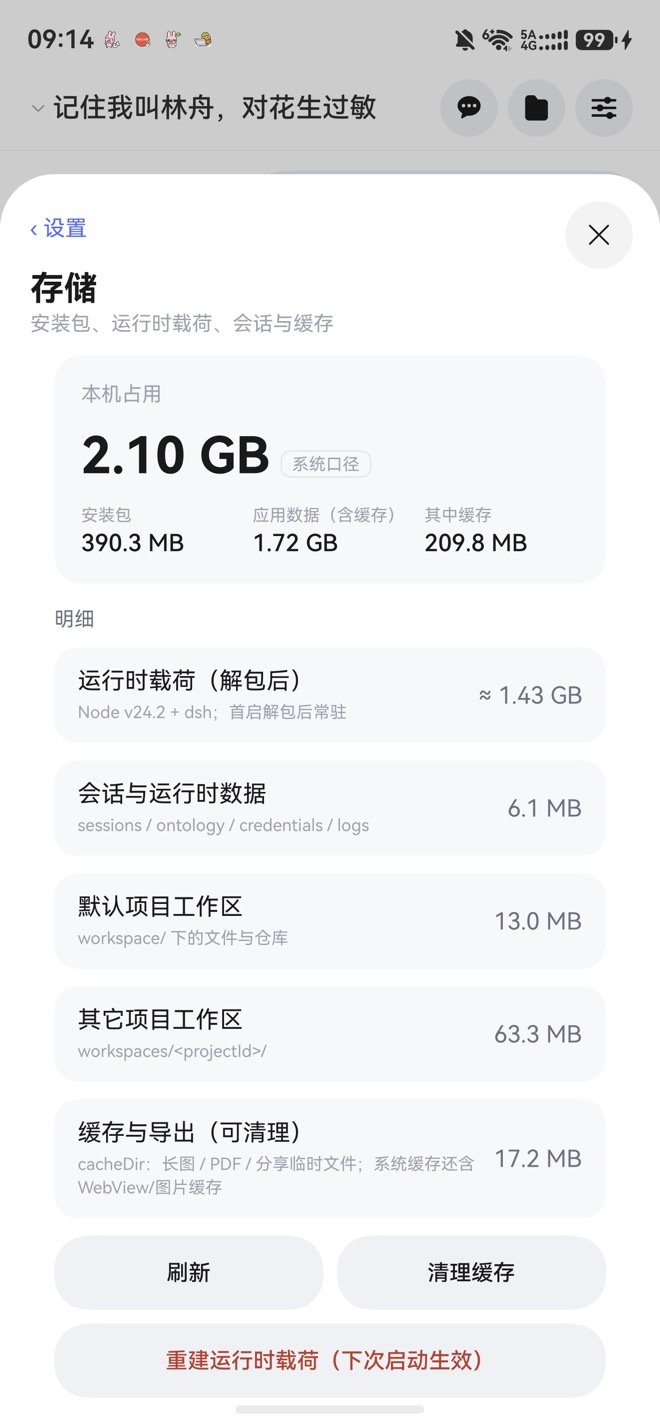
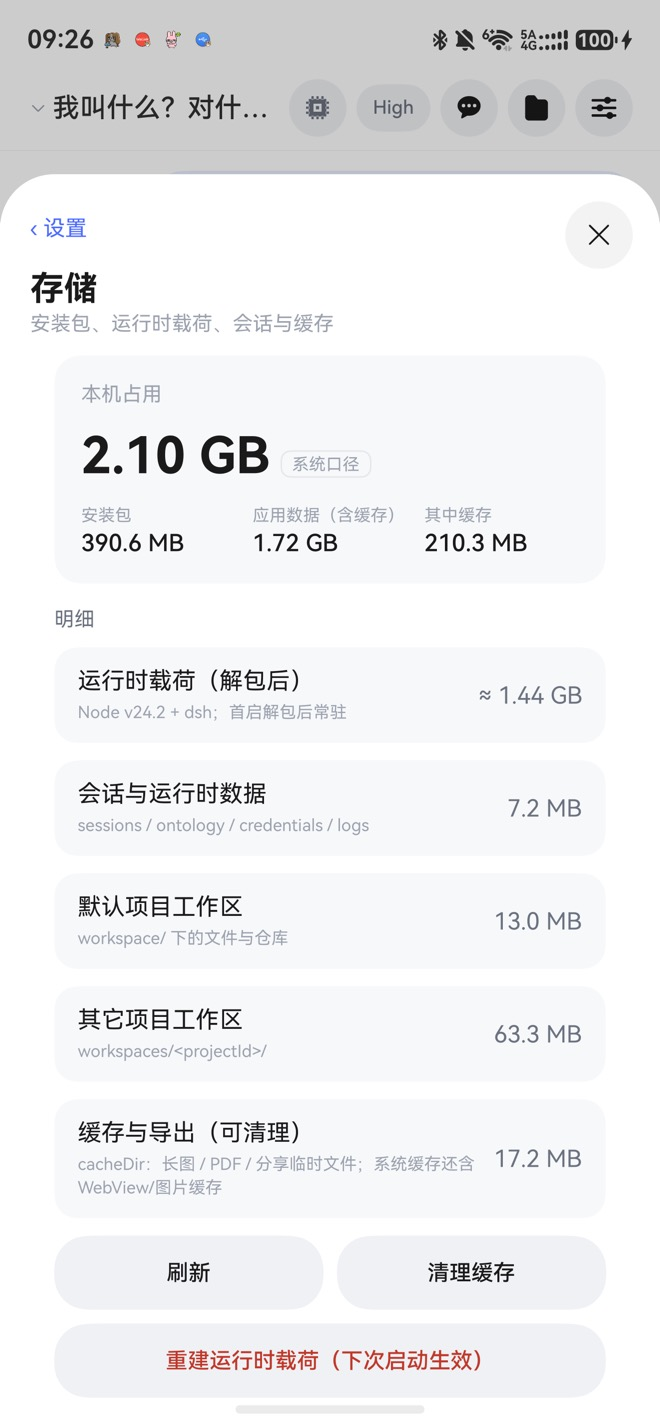
Show storage and memory receipts in the README
Refresh the storage, memory-chip and provenance screenshots from the current CMM-AL10 build, add them to the screenshot grid, and add feature rows for the injection receipt and the storage panel. The README now says what the chip shows and where the numbers come from instead of leaving those two features only in docs/STATUS.md.

diff --git a/README.md b/README.md
@@ -37,6 +37,8 @@
 
 头号功能是**端侧个人本体（Ontology）**：端侧 SQLite 存身份 / 过敏 / 语言 / 沟通偏好等硬约束，跨会话自动注入，可查看、删除、分享，可导出并对端合并。
 
+每次注入都会在回复下留下**「本轮新带入 N 条记忆」**，删除硬约束时显示**「本轮移除了硬约束」**；点开可以看谓词、值、来源与日期——记忆不是黑盒。
+
 > 完整对外口径（SCP 场景-冲突-承诺、能怎么说 / 别怎么说、已验证 / 实验 / 边界状态表）见 [docs/POSITIONING.md](docs/POSITIONING.md)；鸿蒙 PC（2in1）迁移清单见 [docs/POSITIONING.md](docs/POSITIONING.md) §10 与 [docs/ROADMAP.md](docs/ROADMAP.md) §6。
 
 本仓库是 [DeepSeek Harness](https://github.com/deepseek-ai/deepseek-harness)（`dsh`）的**鸿蒙外壳**：
@@ -144,6 +146,29 @@ This repository is the **HarmonyOS shell** for [DeepSeek Harness](https://github
 
 </td>
 </tr>
+<tr>
+<td width="33%">
+
+**存储**：2.10 GB 总占用，运行时载荷可清理 / 可重建
+
+<img src="docs/images/screens/12-storage.jpg" alt="存储面板" width="100%">
+
+</td>
+<td width="33%">
+
+**记忆回执**：这一轮到底带入了哪几条硬约束
+
+<img src="docs/images/screens/13-memory-chip.jpg" alt="记忆回执" width="100%">
+
+</td>
+<td width="33%">
+
+**记忆溯源**：谓词 / 值 / 来源 / 日期，全部在本机
+
+<img src="docs/images/screens/14-memory-provenance.jpg" alt="记忆溯源" width="100%">
+
+</td>
+</tr>
 </table>
 
 ### 长图成品与分享
@@ -200,6 +225,8 @@ This repository is the **HarmonyOS shell** for [DeepSeek Harness](https://github
 | **会话分支** | 从任意消息 fork 出新会话，原会话完整保留 |
 | **项目隔离** | 每个项目独立工作区，可绑定外部目录 |
 | **端侧个人本体** | SQLite 存身份/过敏/语言/沟通偏好等事实（23 个受控谓词）；硬约束跨会话自动注入，其余按需查询；设置 →「它知道什么」可查看/删除/分享，支持导出 bundle 与跨设备合并 |
+| **记忆回执** | 回复下显示「本轮新带入 N 条记忆」；pinned 集合缩小时显示「本轮移除了硬约束」；点开显示谓词 / 值 / 来源 / 日期，数据来自本机 `injections.jsonl`，不经过云端 |
+| **存储面板** | 设置 → 存储：安装包 390.6 MB + 应用数据 1.72 GB = **2.10 GB**；运行时载荷 ≈1.44 GB；解包成功即删沙箱 zip（−229 MB），可刷新 / 清缓存 / 重建载荷 |
 | **上下文面板** | 输入框小环打开原生面板：窗口占用、系统/工具/消息组成、前缀缓存命中、最近 12 轮；`context-ledger` 只记计数，force-stop 后仍在 |
 | **外观** | 明暗三档（跟随系统/浅色/深色，启动期生效）、对话字号四档、六套强调色 |
 | **命令与引用** | 输入 `/` 调本地命令，输入 `@` 引用工作区文件 |
